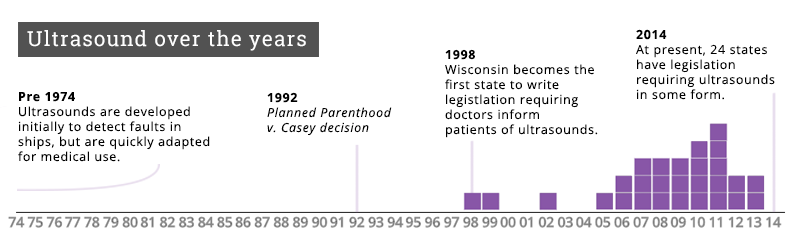
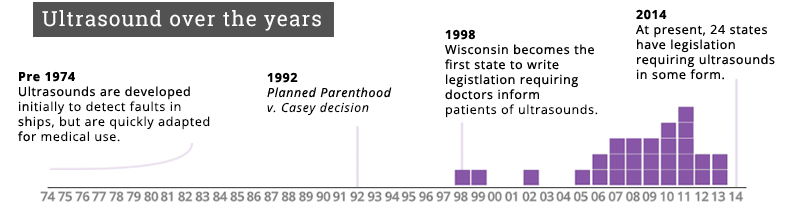
Maps Update Part Three!

diff --git a/index.html b/index.html
@@ -154,7 +154,7 @@
 <p><div class = "letscenter"><img src="img/CPCMap.png"></div>
 <p>Despite that reputation and approach, CPC's have received $60 million of federal funding and outnumber legitimate Abortion Clinics by about 700. 
 Counseling, as with every other service needs to be an option- not a requirement.
-
+<p><div class = "letscenter"><img src="img/CPCLawChart.png"></div>
 <!-- ==============================
             WAITING PERIOD 
 ===================================-->
@@ -180,6 +180,7 @@ Counseling, as with every other service needs to be an option- not a requirement
 <section id="ultrasound"></section> 
 <div class = "chptrhead"><h2>Ultrasound</h2></div>
 <p>The most recent type of legislation regarding abortion being pushed has been for mandatory ultrasounds, a medically safe procedure that involve sending high frequency sound waves through the woman's body to create an image of the baby inside. For observations of the fetus's development, ultrasounds are a great.
+<div class = "letscenter"><img src ="img/UltrasoundTimeline.png"></div>
 <p>Introduced in the late 80s, legislation to mandate is has flourished since 2004. Ranging from laws simply requiring doctors to inform a woman of the procedure, to requiring it to be offered, to requiring it be performed prior to an abortion.
 <p>When it becomes a requirement, ultrasounds further exacerbate problems with waiting periods and counseling. It's an important distinction that these are not medically necessary in any way as a component of a first-trimester abortion.
 <p>Further intrusive is the policy in Louisiana, Texas, and Virginia that require the ultrasound image to be shown and described during the abortion. While the woman getting an abortion doesn't need to be looking at it, there is simply no justification or purpose for this sort of requirement beyond trying to shame the patient. 

diff --git a/css/style.css b/css/style.css
@@ -365,6 +365,8 @@
 .letscenter{
     text-align: center;
     margin-bottom: 20px;
+    position: relative;
+    right: 50px;
 }
 
 .chptrhead{
